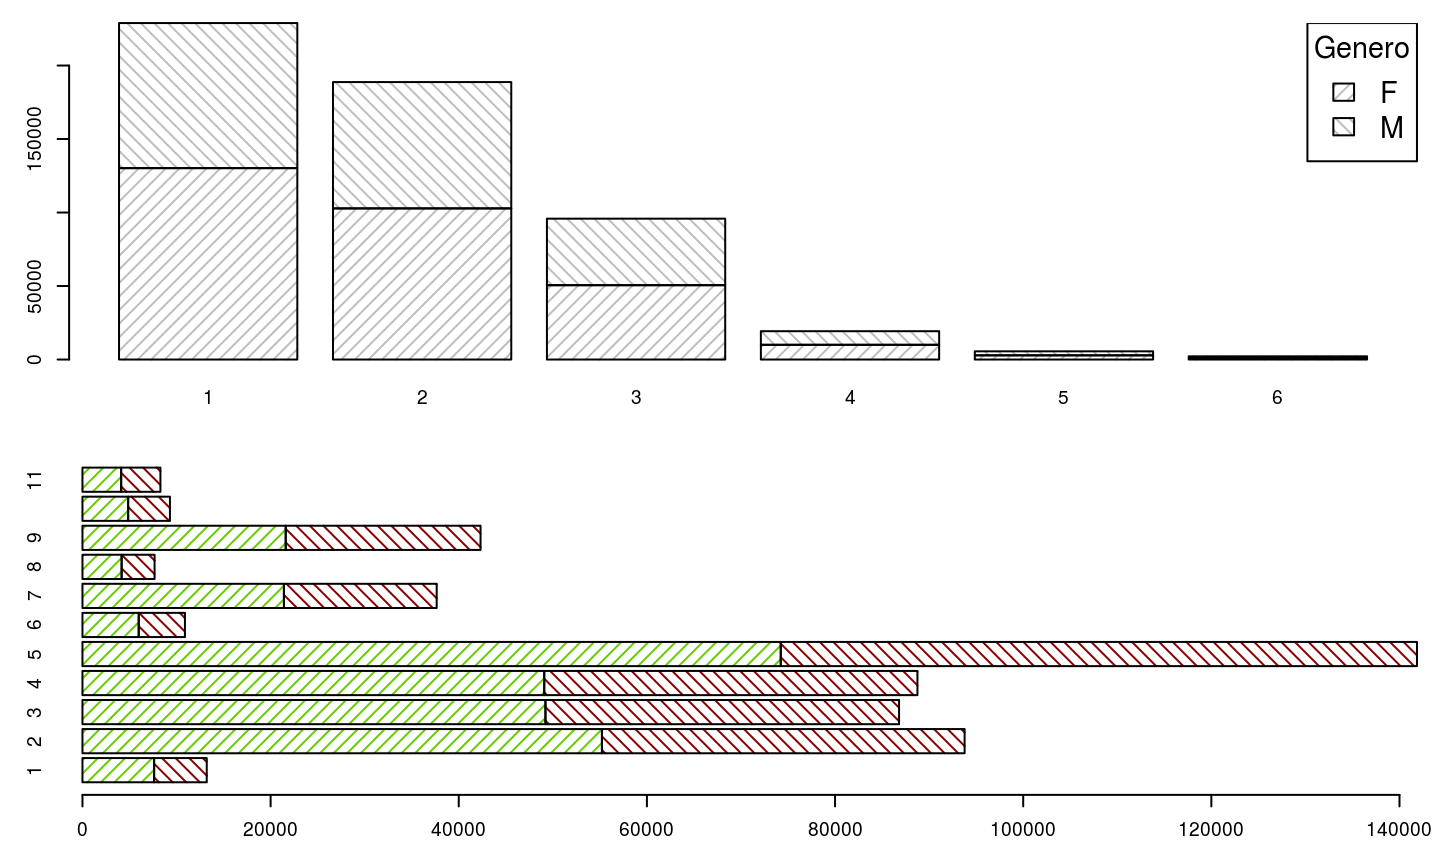
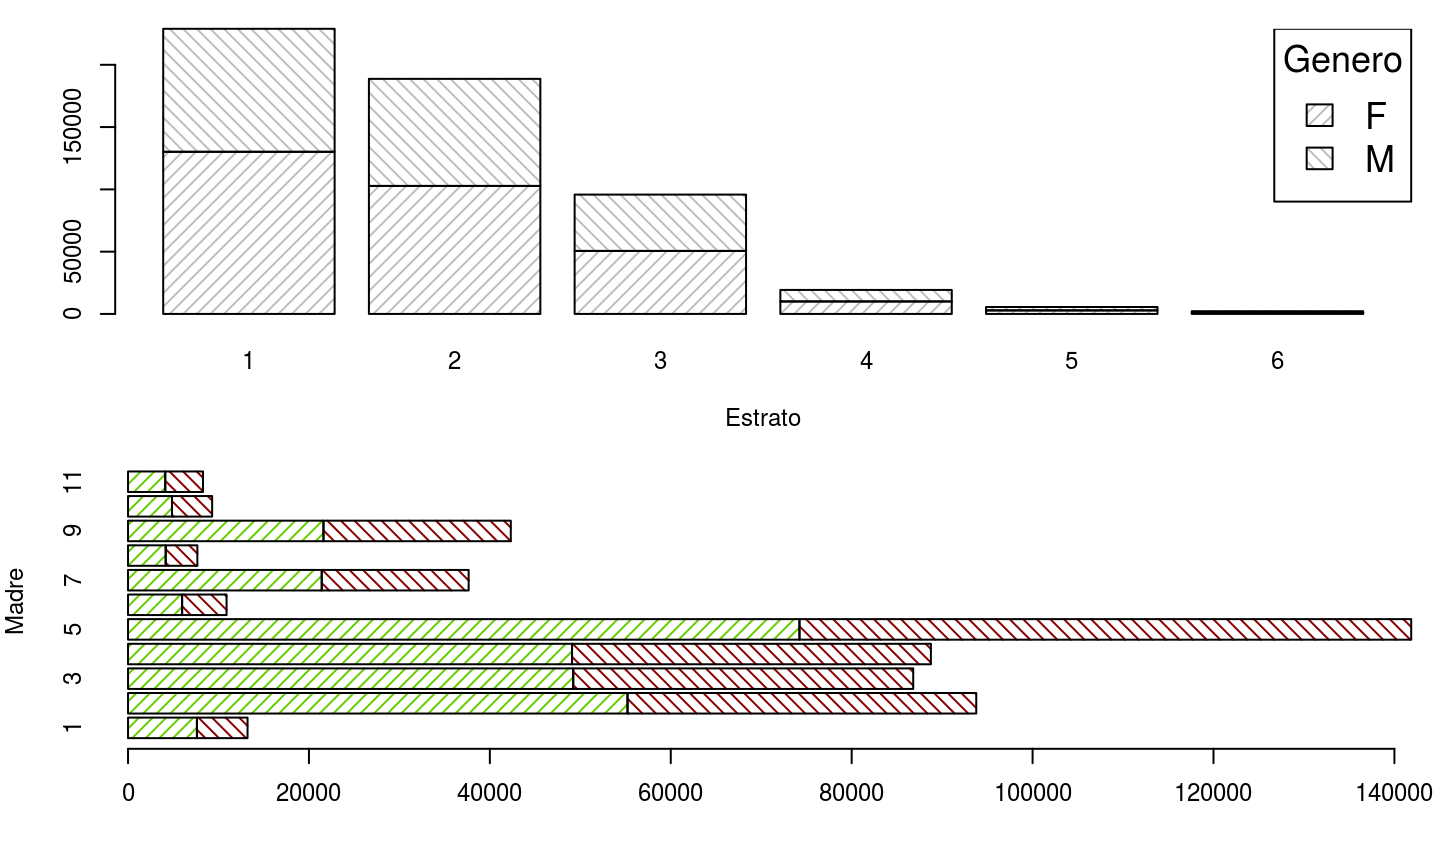
Show saber data and fix barplot labels

diff --git a/index.html b/index.html
@@ -267,9 +267,79 @@ plot(Petal.Length ~ Species, data = iris)</pre>
 #&gt; [28] plot.tskernel*      plot.TukeyHSD*     
 #&gt; see &#39;?methods&#39; for accessing help and source code</pre>
 
+</article></slide><slide class=''><hgroup><h2><code>barplot()</code> &#8230;</h2></hgroup><article  id="barplot-...">
+
+<p>&#8230; pero antes unos datos más interesantes</p>
+
+<pre class = 'prettyprint lang-r'>library(&quot;saber&quot;)  # Ver github.com/nebulae-co/saber</pre>
+
+<pre class = 'prettyprint lang-r'>data(SB11_20142)
+glimpse(SB11_20142)</pre>
+
+<pre >#&gt; Observations: 541874
+#&gt; Variables:
+#&gt; $ ESTU_CONSECUTIVO              (chr) &quot;SABER1120142308841&quot;, &quot;SABER1120...
+#&gt; $ PERS_GENERO                   (chr) &quot;F&quot;, &quot;M&quot;, &quot;M&quot;, &quot;F&quot;, &quot;F&quot;, &quot;F&quot;, &quot;M...
+#&gt; $ PERS_FECHANACIMIENTO          (date) 1996-08-02, 1995-07-30, 1997-03...
+#&gt; $ PERS_ETNIA                    (int) 100, 99, 100, 100, 100, 100, 100...
+#&gt; $ DISC_COGNITIVA                (chr) NA, NA, NA, NA, NA, NA, NA, NA, ...
+#&gt; $ DISC_CONDICION_ESPECIAL       (chr) NA, NA, NA, NA, NA, NA, NA, NA, ...
+#&gt; $ DIS_MOTRIZ                    (chr) NA, NA, NA, NA, NA, NA, NA, NA, ...
+#&gt; $ DISC_INVIDENTE                (chr) NA, NA, NA, NA, NA, NA, NA, NA, ...
+#&gt; $ DISC_SORDO                    (chr) NA, NA, NA, NA, NA, NA, NA, NA, ...
+#&gt; $ DISC_SDOWN                    (chr) NA, NA, NA, NA, NA, NA, NA, NA, ...
+#&gt; $ DISC_AUTISMO                  (chr) NA, NA, NA, NA, NA, NA, NA, NA, ...
+#&gt; $ COD_MUNI_RESIDE               (int) 13001, 20383, 11001, 50223, 5088...
+#&gt; $ MUNI_RESIDE                   (chr) &quot;CARTAGENA&quot;, &quot;LA GLORIA&quot;, &quot;BOGOT...
+#&gt; $ DEPA_RESIDE                   (chr) &quot;BOLIVAR&quot;, &quot;CESAR&quot;, &quot;BOGOTA&quot;, &quot;M...
+#&gt; $ ZONA_RESIDE                   (int) 5, 10, 4, 10, 10, 10, 5, 10, 10,...
+#&gt; $ FINS_TIPOUBICACION            (chr) &quot;U&quot;, &quot;R&quot;, &quot;U&quot;, &quot;R&quot;, &quot;U&quot;, &quot;U&quot;, &quot;R...
+#&gt; $ CODIGO_DANE                   (chr) &quot;113001001450&quot;, &quot;220383000769&quot;, ...
+#&gt; $ CODIGO_ICFES                  (int) 144451, 69039, 114728, 11098, 13...
+#&gt; $ NOMBRE_SEDE                   (chr) &quot;INSTITUCION EDUCATIVA PEDRO DE ...
+#&gt; $ JORNADA                       (chr) &quot;M&quot;, &quot;M&quot;, &quot;T&quot;, &quot;M&quot;, &quot;M&quot;, &quot;M&quot;, &quot;M...
+#&gt; $ FINS_VALORMENSUALPENSION      (int) 1, 1, 1, 1, 1, 1, 1, 1, 1, 3, 3,...
+#&gt; $ FINS_REPETICIONEXAMEN         (int) 1, 1, 1, 1, 1, 1, 1, 1, 1, 1, 1,...
+#&gt; $ COD_MUNI_APLI                 (int) 13001, 20011, 11001, 50006, 5088...
+#&gt; $ MUNI_APLI                     (chr) &quot;CARTAGENA&quot;, &quot;AGUACHICA&quot;, &quot;BOGOT...
+#&gt; $ DEPA_APLI                     (chr) &quot;BOLIVAR&quot;, &quot;CESAR&quot;, &quot;BOGOTA&quot;, &quot;M...
+#&gt; $ FINS_NIVELEDUCATIVOPADRE      (int) 5, 2, 1, 5, 5, 9, 1, 2, 4, 5, 9,...
+#&gt; $ FINS_NIVELEDUCATIVOMADRE      (int) 2, 2, 7, 3, 5, 10, 2, 2, 4, 5, 9...
+#&gt; $ FINS_OCUPACIONPADRE           (int) 9, 7, 12, 7, 7, 5, 7, 7, 9, 9, 9...
+#&gt; $ FINS_OCUPACIONMADRE           (int) 10, 10, 3, 10, 1, 5, 10, 10, 10,...
+#&gt; $ FINS_ESTRATOVIVIENDAENERGIA   (int) 1, 1, 3, 1, 2, 4, 1, 1, 1, 2, 3,...
+#&gt; $ FINS_SISBEN                   (int) 1, 1, 2, 1, 1, 5, 1, 1, 1, 5, 5,...
+#&gt; $ FINS_PERSONASHOGARACTUAL      (int) 8, 5, 5, 5, 5, 3, 6, 5, 5, 4, 4,...
+#&gt; $ FINS_CUARTOSHOGARACTUAL       (int) 4, 2, 4, 2, 4, 3, 3, 3, 2, 3, 3,...
+#&gt; $ FINS_PISOSHOGAR               (int) 2, 1, 4, 2, 2, 4, 1, 2, 2, 4, 4,...
+#&gt; $ FINS_TIENETELEFONOFIJO        (chr) &quot;S&quot;, &quot;N&quot;, &quot;S&quot;, &quot;N&quot;, &quot;S&quot;, &quot;S&quot;, &quot;N...
+#&gt; $ FINS_TIENETELEFONOCELULAR     (chr) &quot;S&quot;, &quot;S&quot;, &quot;S&quot;, &quot;S&quot;, &quot;S&quot;, &quot;S&quot;, &quot;S...
+#&gt; $ FINS_TIENEINTERNET            (chr) &quot;S&quot;, &quot;N&quot;, &quot;S&quot;, &quot;N&quot;, &quot;S&quot;, &quot;S&quot;, &quot;N...
+#&gt; $ FINS_TIENETELEVISION          (chr) &quot;S&quot;, &quot;N&quot;, &quot;S&quot;, &quot;N&quot;, &quot;S&quot;, &quot;S&quot;, &quot;N...
+#&gt; $ FINS_TIENECOMPUTADOR          (chr) &quot;S&quot;, &quot;N&quot;, &quot;S&quot;, &quot;N&quot;, &quot;S&quot;, &quot;S&quot;, &quot;N...
+#&gt; $ FINS_TIENEDVD                 (chr) &quot;S&quot;, &quot;N&quot;, &quot;S&quot;, &quot;S&quot;, &quot;S&quot;, &quot;N&quot;, &quot;N...
+#&gt; $ FINS_TIENELAVADORAROPA        (chr) &quot;S&quot;, &quot;N&quot;, &quot;S&quot;, &quot;S&quot;, &quot;S&quot;, &quot;S&quot;, &quot;N...
+#&gt; $ FINS_TIENEHORNOMICROONDAS     (chr) &quot;N&quot;, &quot;N&quot;, &quot;N&quot;, &quot;N&quot;, &quot;S&quot;, &quot;S&quot;, &quot;N...
+#&gt; $ FINS_TIENENEVERA              (chr) &quot;S&quot;, &quot;S&quot;, &quot;S&quot;, &quot;S&quot;, &quot;S&quot;, &quot;S&quot;, &quot;S...
+#&gt; $ FINS_TIENEAUTOMOVILPARTICULAR (chr) &quot;N&quot;, &quot;N&quot;, &quot;N&quot;, &quot;N&quot;, &quot;N&quot;, &quot;N&quot;, &quot;N...
+#&gt; $ FINS_TIENEHORNOELECTRICOGAS   (chr) &quot;S&quot;, &quot;N&quot;, &quot;N&quot;, &quot;N&quot;, &quot;S&quot;, &quot;N&quot;, &quot;N...
+#&gt; $ FINS_INGRESOMENSUALHOGAR      (int) 1, 1, 3, 2, 2, 3, 1, 1, 2, 2, 2,...
+#&gt; $ FINS_TRABAJAACTUALMENTE       (int) 1, 1, 1, 1, 1, 1, 1, 1, 3, 1, 1,...
+#&gt; $ FINS_SALARIOPORTRABAJO        (chr) NA, NA, NA, NA, NA, NA, NA, NA, ...
+#&gt; $ EVAL_PUESTO                   (int) 919, 908, 538, 672, 730, 534, 76...
+#&gt; $ LECTURA_CRITICA_PUNT          (int) 43, 41, 45, 47, 44, 50, 50, 41, ...
+#&gt; $ MATEMATICAS_PUNT              (dbl) 42, 33, 56, 47, 44, 49, 45, 38, ...
+#&gt; $ SOCIALES_CIUDADANAS_PUNT      (dbl) 37, 39, 46, 50, 47, 47, 39, 38, ...
+#&gt; $ CIENCIAS_NATURALES_PUNT       (dbl) 35, 45, 49, 37, 41, 48, 42, 36, ...
+#&gt; $ INGLES_PUNT                   (dbl) 38, 40, 41, 49, 48, 48, 39, 45, ...
+#&gt; $ INGLES_DESEM                  (chr) &quot;A-&quot;, &quot;A-&quot;, &quot;A-&quot;, &quot;A1&quot;, &quot;A-&quot;, &quot;A...</pre>
+
+<pre class = 'prettyprint lang-r'>estratos &lt;- with(SB11_20142, table(PERS_GENERO, FINS_ESTRATOVIVIENDAENERGIA))
+educacion_madre &lt;- SB11_20142 %$% table(PERS_GENERO, FINS_NIVELEDUCATIVOMADRE)</pre>
+
 </article></slide><slide class=''><hgroup><h2><code>barplot()</code></h2></hgroup><article  id="barplot">
 
-<pre class = 'prettyprint lang-r'>par(mfrow = c(2, 1), mar = c(3, 3, 1, 1), cex = 0.6)
+<pre class = 'prettyprint lang-r'>par(mfrow = c(2, 1), mar = c(4, 4, 1, 1), cex = 0.75)
 
 barplot(estratos, angle = c(45, 135), density = 20, col = &quot;grey&quot;,
         names = colnames(estratos), xlab = &quot;Estrato&quot;)
@@ -301,7 +371,7 @@ boxplot(MATEMATICAS_PUNT ~ FINS_ESTRATOVIVIENDAENERGIA, data = SB11_20142,
 
 <p><img src="graficas_files/figure-html/boxplot-1.png" title="" alt="" width="720" /></p>
 
-</article></slide><slide class=''><hgroup><h2>Gráficas para 3 dimensiones o más</h2></hgroup><article  id="graficas-para-3-dimensiones-o-mas">
+</article></slide><slide class=''><hgroup><h2>Gráficas para 3 o más dimensiones</h2></hgroup><article  id="graficas-para-3-o-mas-dimensiones">
 
 <ul>
 <li><code>persp()</code> superficies.</li>
